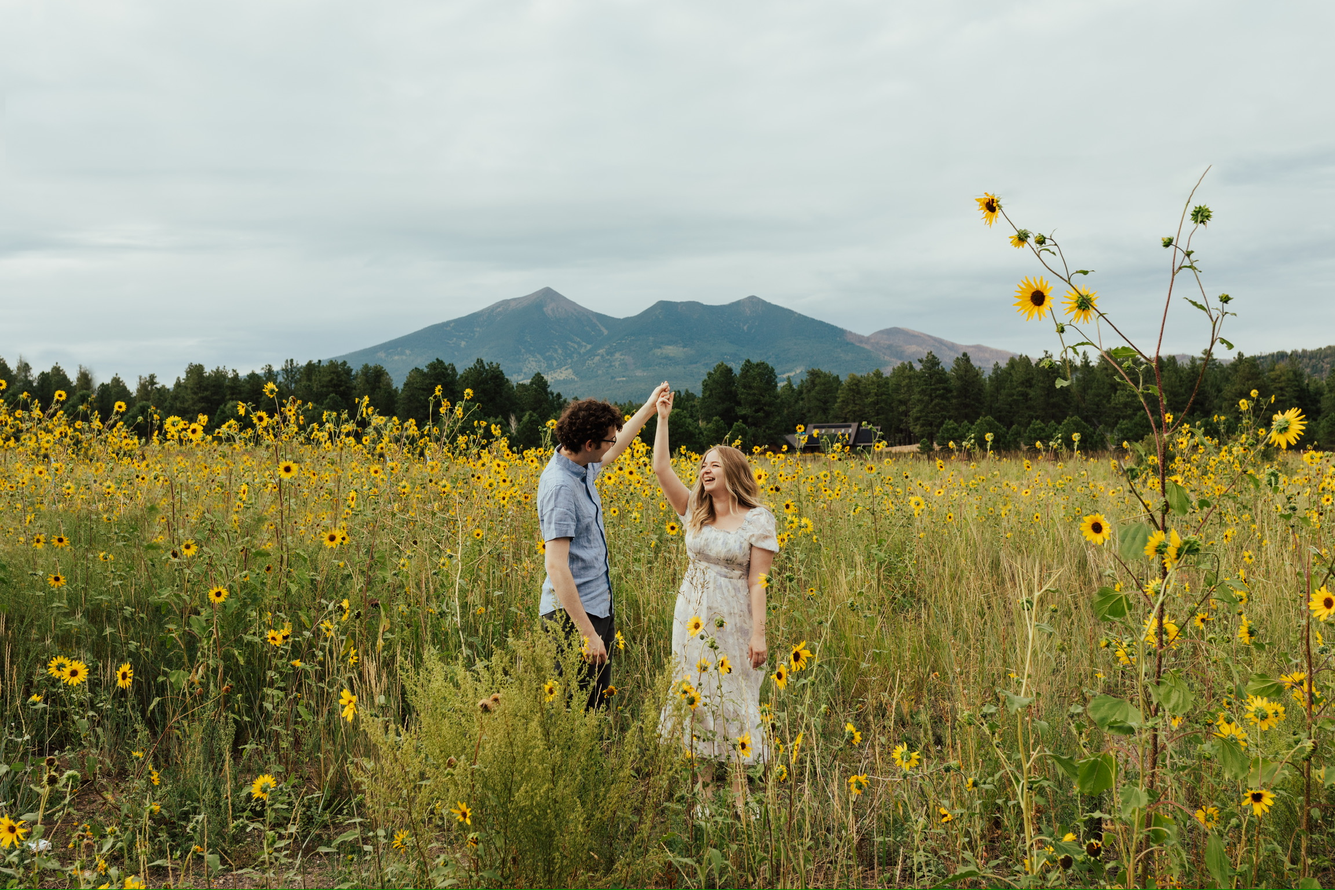
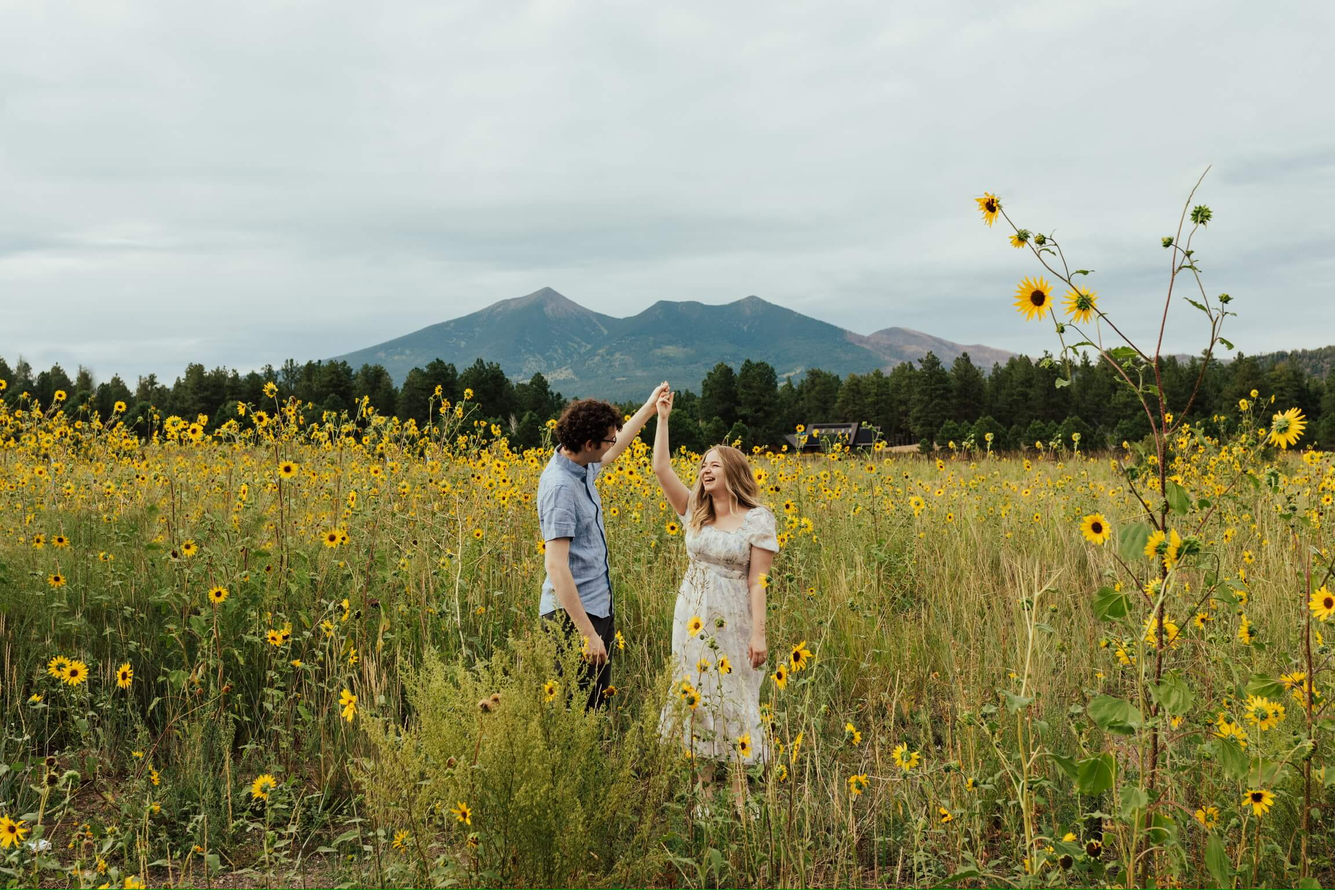
Cleanup imports, compress images on load

diff --git a/src/features/Gallery/components/UploadImages.tsx b/src/features/Gallery/components/UploadImages.tsx
@@ -1,6 +1,6 @@
 "use client";
 
-import { Card, Center, Group, rem, Text, useMantineTheme } from "@mantine/core";
+import { Card, Group, rem, Text, useMantineTheme } from "@mantine/core";
 import { notifications } from "@mantine/notifications";
 import {
   showSuccessNotification,
@@ -11,6 +11,7 @@ import { Dropzone, IMAGE_MIME_TYPE } from "@mantine/dropzone";
 import { IconX, IconPhoto, IconUpload } from "@tabler/icons-react";
 import { useSWRConfig } from "swr";
 import { GALLERY_SWR_KEY, uploadFileToGallery } from "@spiel-wedding/hooks/gallery";
+import Compressor from "compressorjs";
 
 const UploadImages = (): JSX.Element => {
   const theme = useMantineTheme();
@@ -28,14 +29,19 @@ const UploadImages = (): JSX.Element => {
   };
 
   const uploadImage = async (file: File) => {
-    const newImage = await uploadFileToGallery(file);
+    new Compressor(file, {
+      quality: 0.6,
 
-    if (newImage) {
-      showSuccessNotification("Successfully uploaded image.");
-      await mutate(GALLERY_SWR_KEY);
-    } else {
-      showFailureNotification();
-    }
+      success(result) {
+        uploadFileToGallery(result as File).then(async (newImage) => {
+          showSuccessNotification("Successfully uploaded image.");
+          await mutate(GALLERY_SWR_KEY);
+        });
+      },
+      error(err) {
+        showFailureNotification();
+      },
+    });
   };
 
   return (

diff --git a/src/app/Providers.tsx b/src/app/Providers.tsx
@@ -5,6 +5,8 @@ import SignInStatusProvider from "../context/SignInStatus";
 import { DEFAULT_THEME, MantineProvider, createTheme } from "@mantine/core";
 import { Notifications } from "@mantine/notifications";
 import { NextFontWithVariable } from "next/dist/compiled/@next/font";
+import {useEffect} from "react";
+import {logBugReportLink} from "@spiel-wedding/components/easterEggs";
 
 export function Providers({
   children,
@@ -13,6 +15,11 @@ export function Providers({
   children: any;
   poppins: NextFontWithVariable;
 }) {
+
+  useEffect(() => {
+    logBugReportLink()
+  }, []);
+
   const theme = createTheme({
     fontFamily: poppins.style.fontFamily + "," + DEFAULT_THEME.fontFamily,
     headings: {

diff --git a/src/features/ZachAndSedona/styles.module.css b/src/features/ZachAndSedona/styles.module.css
@@ -12,7 +12,7 @@
 }
 
 .flowerContainer::before {
-  background-image: url("https://images.zola.com/29fceccb-d1f9-4d7e-ba3b-9f253851f32e?w=500");
+  background-image: url("/assets/images/right-flower.png");
   content: " ";
   background-size: contain;
   background-repeat: no-repeat;
@@ -35,7 +35,7 @@
 }
 
 .flowerContainer::after {
-  background-image: url("https://images.zola.com/79e82109-4342-4bca-bc48-6298b4ef24d2?w=500");
+  background-image: url("/assets/images/left-flower.png");
   content: " ";
   background-size: contain;
   background-repeat: no-repeat;

diff --git a/src/components/easterEggs.ts b/src/components/easterEggs.ts
@@ -10,4 +10,9 @@ const weddingDateString = `
   ____|___|_|___|_____/_______\\ |||___October 26th 2024___
  `;
 
-export { weddingDateString };
+const logBugReportLink = () => {
+  console.log("Hello! Hopefully you won't find too much down here, but for more information regarding the tech stack please go here: ");
+ console.log("Additionally, if you notice any 🐛, please report them to the GitHub repo above. Thank you!");
+}
+
+export { weddingDateString, logBugReportLink };

diff --git a/src/components/footer/footer.module.css b/src/components/footer/footer.module.css
@@ -15,7 +15,8 @@
   .links {
     justify-content: center;
     text-align: center;
-    @media (mx-width: $mantine-breakpoint-xs) {
+
+    @media (max-width: $mantine-breakpoint-xs) {
       margin-top: var(--mantine-spacing-md);
     }
   }
@@ -27,7 +28,6 @@
   line-height: 1;
   padding: rem(8) rem(12);
   border-radius: var(--mantine-radius-sm);
-  color: var(--mantine-color-gray-7);
   font-size: var(--mantine-font-size-md);
 
   &:hover {

diff --git a/src/features/GuestListTable/GuestListTable.tsx b/src/features/GuestListTable/GuestListTable.tsx
@@ -24,7 +24,7 @@ import {
   filterGroups,
   sortGroups,
 } from "@spiel-wedding/features/GuestListTable/tableUtils";
-import { Group, Guest } from "@spiel-wedding/types/Guest";
+import { Group } from "@spiel-wedding/types/Guest";
 import { IconChevronDown, IconChevronUp, IconSearch, IconX } from "@tabler/icons-react";
 import { ChangeEvent, useMemo, useState } from "react";
 import classes from "./styles.module.css";

diff --git a/src/components/navbar/Logo.tsx b/src/components/navbar/Logo.tsx
@@ -1,13 +1,12 @@
 import Image from "next/image";
-import classes from "./navbar.module.css";
 
 const Logo = (): JSX.Element => {
   return (
     <Image
       src="/assets/images/The-Spielbergers-Wedding-Logo-Variant.webp"
-      className={classes.logo}
       width={100}
       height={90}
+      priority
       alt="The Spielbergers Wedding Logo"
     />
   );

diff --git a/src/features/Gallery/index.tsx b/src/features/Gallery/index.tsx
@@ -9,7 +9,7 @@ import { getPhotoGallery, GALLERY_SWR_KEY } from "@spiel-wedding/hooks/gallery";
 import useSWR from "swr";
 import classes from "./gallery.module.css";
 import { v4 as uuid } from "uuid";
-import { Paper, Skeleton, em } from "@mantine/core";
+import { Paper, Skeleton } from "@mantine/core";
 
 const LOADING_SCREEN = [uuid(), uuid(), uuid()];
 

diff --git a/src/features/RsvpSearchbar/RsvpSearchbar.tsx b/src/features/RsvpSearchbar/RsvpSearchbar.tsx
@@ -21,11 +21,10 @@ const getMatchingGuests = async (
   ).then((res) => res.json());
 
   if (result.length === 0) {
-    const error = {
+    throw {
       info: `Hm... we can't find your name. Make sure you enter your name exactly as it appears on your invitation.`,
       status: 400,
     };
-    throw error;
   }
 
   return result;

diff --git a/src/common/common.module.css b/src/common/common.module.css
@@ -26,7 +26,6 @@
 
 .flowerImageLeft {
   left: 10px;
-  -webkit-transform: scaleX(-1);
   transform: scaleX(-1);
 }
 
@@ -36,7 +35,7 @@
 
 .flowerDivider {
   @media (max-width: $mantine-breakpoint-md) {
-    width: 225px;
+    width: 256px;
     height: 75px;
   }
 }

diff --git a/src/app/page.tsx b/src/app/page.tsx
@@ -6,6 +6,7 @@ import Jumbotron from "@spiel-wedding/features/Jumbotron";
 import ZachAndSedona from "@spiel-wedding/features/ZachAndSedona";
 import RSVP from "@spiel-wedding/features/RSVP";
 
+
 export default function Home() {
   return (
     <main>

diff --git a/src/components/footer/Footer.tsx b/src/components/footer/Footer.tsx
@@ -1,4 +1,4 @@
-import { Container, Group, Anchor, Image } from "@mantine/core";
+import { Container, Group, Anchor } from "@mantine/core";
 import classes from "./footer.module.css";
 import { links } from "@spiel-wedding/common";
 
